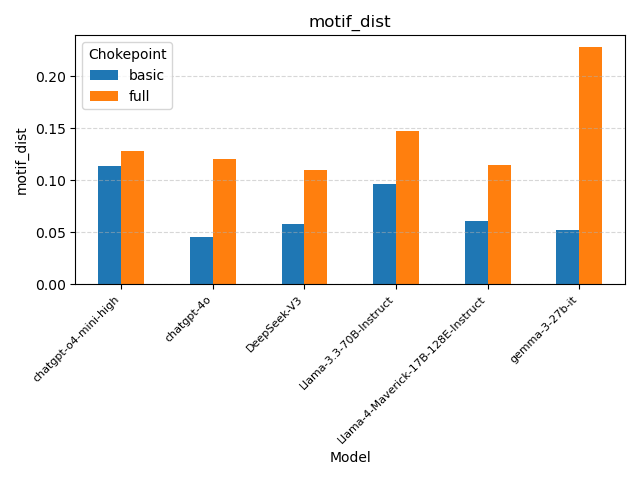
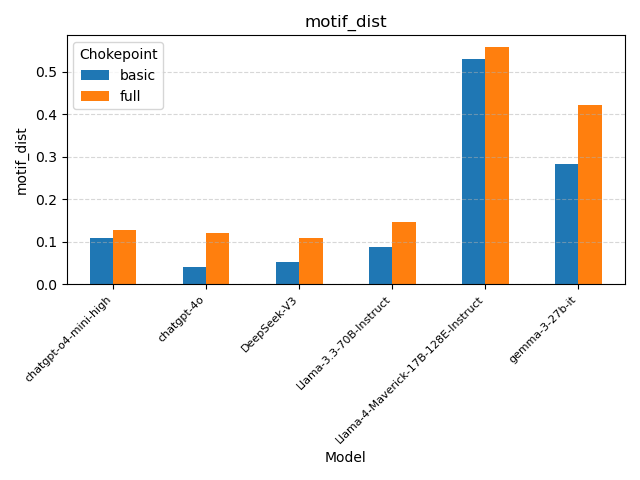
graficos y resultados finales

diff --git a/eval.py b/eval.py
@@ -64,7 +64,7 @@ def main():
                     "fuzzy_P": 0, "fuzzy_R": 0, "fuzzy_F1": 0,
                     "cont_P": 0, "cont_R": 0, "cont_F1": 0,
                     "graph_P": 0, "graph_R": 0, "graph_F1": 0,
-                    "motif_dist": 0,
+                    "motif_dist": 1,
                     "resource_P": 0, "resource_R": 0, "resource_F1": 0
                 })
                 continue

diff --git a/chokepoints.py b/chokepoints.py
@@ -9,7 +9,7 @@ BASIC = {
         "rdf_type_objects": {
             "owl:Class",
             "owl:DatatypeProperty",
-            "owl:DatatypeProperty"
+            "owl:ObjectProperty",
         }
     }
 }
